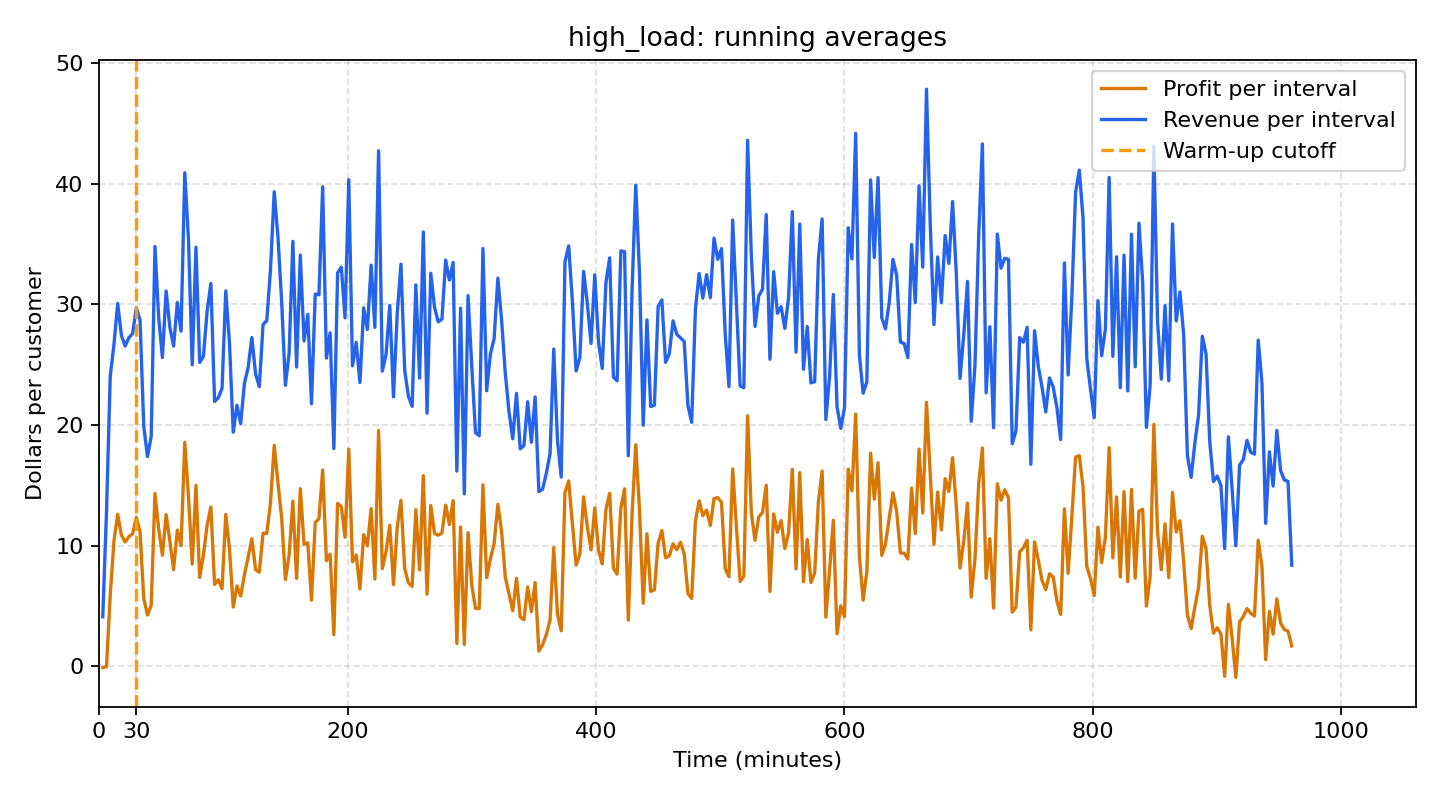
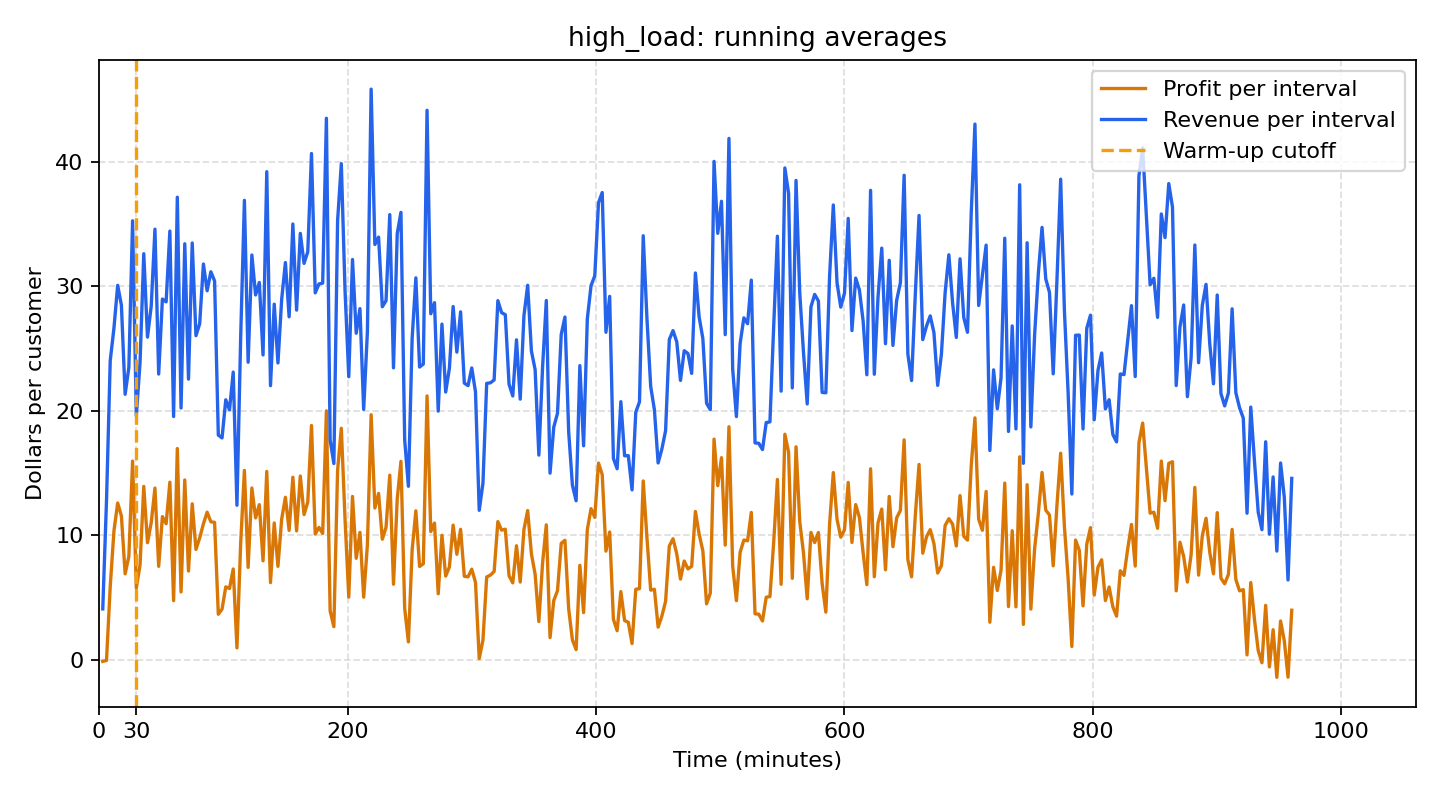
update beverage refill & espresso maintenance

diff --git a/sim/stations.py b/sim/stations.py
@@ -18,7 +18,7 @@
 from __future__ import annotations
 import math
 from typing import Dict
-from .queues import Server
+from .queues import Server, BatchServer
 
 class DineInServer(Server):
     """
@@ -95,9 +95,37 @@ def make_stations(cfg: dict) -> Dict[str, Server]:
     S["cashier"]  = Server("cashier",  c=1, K=math.inf, service_rate=rates.get("cashier"))
     S["window"]   = Server("window",   c=1, K=math.inf, service_rate=rates.get("window", rates.get("cashier")))
     # Kitchen
-    S["espresso"] = Server("espresso", c=caps.get("espresso_c",1), K=math.inf, service_rate=rates.get("espresso"))
+    # Espresso with maintenance cycles (limited shots then downtime)
+    espresso_batch = cfg.get("espresso", {}).get("batch_size", cfg.get("capacities", {}).get("espresso_batch_size", None))
+    espresso_maint = cfg.get("espresso", {}).get("maintenance_minutes", cfg.get("service_rates", {}).get("espresso_maintenance", None))
+    if espresso_batch and espresso_maint:
+        S["espresso"] = BatchServer(
+            "espresso",
+            c=caps.get("espresso_c",1),
+            K=math.inf,
+            service_rate=rates.get("espresso"),
+            batch_size=int(espresso_batch),
+            downtime=espresso_maint * 60.0,
+        )
+    else:
+        S["espresso"] = Server("espresso", c=caps.get("espresso_c",1), K=math.inf, service_rate=rates.get("espresso"))
+
     S["hotfood"]  = Server("hotfood",  c=caps.get("hotfood_c",2),  K=math.inf, service_rate=rates.get("hotfood"))
-    S["beverage"] = Server("beverage", c=caps.get("beverage_c",2), K=math.inf, service_rate=rates.get("beverage"))
+
+    # Beverage with urn cycles (finite pours then refill downtime)
+    bev_batch = cfg.get("beverage", {}).get("urn_size", cfg.get("capacities", {}).get("beverage_urn_size", None))
+    bev_refill = cfg.get("beverage", {}).get("refill_minutes", cfg.get("service_rates", {}).get("beverage_refill", None))
+    if bev_batch and bev_refill:
+        S["beverage"] = BatchServer(
+            "beverage",
+            c=caps.get("beverage_c",2),
+            K=math.inf,
+            service_rate=rates.get("beverage"),
+            batch_size=int(bev_batch),
+            downtime=bev_refill * 60.0,
+        )
+    else:
+        S["beverage"] = Server("beverage", c=caps.get("beverage_c",2), K=math.inf, service_rate=rates.get("beverage"))
     # Pack & Pickup
     S["pack"]     = Server("pack",     c=1,   K=math.inf, service_rate=rates.get("pack", rates.get("cashier")))
     S["shelf"]    = Server("shelf",    c=1,   K=caps.get("shelf_N", 20), service_rate=rates.get("shelf", rates.get("cashier")))

diff --git a/sim/queues.py b/sim/queues.py
@@ -165,3 +165,60 @@ class Server:
         # wait = (departure time) - (service time) - (queue entry)
         wait = now - st - t_arr
         return wait if wait > 0 else 0.0
+
+
+class BatchServer(Server):
+    """
+    Server with a finite batch capacity (e.g., urns/shots) that triggers a
+    downtime/maintenance interval when the batch is exhausted. After downtime,
+    capacity is reset and service resumes.
+
+    Parameters
+    ----------
+    batch_size : int
+        Number of jobs that can be processed before a maintenance/refill is needed.
+    downtime : float
+        Deterministic downtime in seconds to reset the batch.
+    """
+    def __init__(self, name: str, c: int, K: float, service_rate: float | None, batch_size: int, downtime: float):
+        super().__init__(name, c=c, K=K, service_rate=service_rate)
+        self.batch_size = max(1, int(batch_size))
+        self.downtime = max(0.0, downtime)
+        self.remaining = self.batch_size
+        self.in_refill = False
+
+    def _schedule_refill(self, env: Env):
+        """Block service and schedule a timer to finish refill/maintenance."""
+        if self.in_refill or self.downtime <= 0.0:
+            return
+        self.in_refill = True
+        env.schedule(Event(env.t + self.downtime, "timer", {"server": self, "kind": "refill_done"}))
+
+    def handle_timer(self, env: Env, kind: str):
+        """Callback invoked by Router.on_timer when our downtime ends."""
+        if kind != "refill_done":
+            return
+        self.in_refill = False
+        self.remaining = self.batch_size
+        # After refill, immediately try to start waiting work.
+        self.try_start_service(env)
+
+    def try_start_service(self, env: Env):
+        """
+        Override to halt service when the batch is depleted and resume after
+        the scheduled downtime.
+        """
+        while self.queue and self.in_service < self.c:
+            if self.in_refill:
+                break
+            if self.remaining <= 0:
+                self._schedule_refill(env)
+                break
+            job = self.queue.pop(0)
+            st = self.draw_service(job)
+            if hasattr(job, "service_durations"):
+                job.service_durations[self.name] = st
+            self.in_service += 1
+            self.remaining -= 1
+            self._mark_busy(env.t)
+            env.schedule(Event(env.t + st, "departure", {"server": self, "job": job}))

diff --git a/experiments/scenarios.py b/experiments/scenarios.py
@@ -18,20 +18,24 @@ BASELINE_OPTIMIZED = {
         "service_rates": {
             "cashier": 0.45,
             "window": 0.5,
-            "beverage": 0.33,
-            "espresso": 0.25,
+            "beverage": 0.29700000000000004,
+            "beverage_refill": 2.0,
+            "espresso": 0.2,
+            "espresso_maintenance": 2.0,
             "hotfood": 0.33,
             "pack": 0.2,
-            "shelf": 0.02,
+            "shelf": 0.05,
             "dine_in": 6.0,
             "table_cleaning": 0.33,
         },
         "capacities": {
             "shelf_N": 20,
+            "beverage_urn_size": 25,
             "espresso_c": 1,
+            "espresso_batch_size": 40,
             "hotfood_c": 1,
             "beverage_c": 1,
-            "dine_in_tables": 14,
+            "dine_in_tables": 11,
             "table_cleaners": 1,
         },
         "penalties": {

diff --git a/experiments/run_experiments.py b/experiments/run_experiments.py
@@ -280,7 +280,7 @@ def main():
         print(f"  Avg dine-in stay (incl cleaning): {dine_in_time[0]:.2f} ± {dine_in_time[1]:.2f} min")
         print(f"  Avg revenue per customer: ${rev_per_customer[0]:.2f} ± ${rev_per_customer[1]:.2f}")
         print(f"  Served by channel (mean customers/day): { {k: round(v, 1) for k, v in served.items()} }")
-        print(f"  Station utilization (mean % busy): {utilizations}")
+        print(f"  Server utilization (mean % busy): {utilizations}")
         if plot_path:
             print(f"  Profit, Revenue, Warm-up plot saved to: {plot_path}")
         print("-")

diff --git a/sim/network.py b/sim/network.py
@@ -41,7 +41,10 @@ class Router:
 
     # Timer hooks for policies (e.g., brew cycles), unused in this scaffold
     def on_timer(self, env, **data):
-        pass
+        srv = data.get("server")
+        kind = data.get("kind")
+        if srv is not None and hasattr(srv, "handle_timer"):
+            srv.handle_timer(env, kind=kind)
 
     # Advance after a server departure
     def advance(self, env, job: Any, from_server):

diff --git a/experiments/optimize_profit.py b/experiments/optimize_profit.py
@@ -316,7 +316,7 @@ def format_as_scenario(name: str, cfg: Dict):
     print(f'{name.upper()} = {{')
     print(f'    "name": "{name}",')
     print('    "overrides": {')
-    for section in ("service_rates", "capacities", "penalties", "costs", "sim"):
+    for section in ("service_rates", "capacities", "penalties", "costs"):
         block = cfg.get(section, {})
         if not block:
             continue
